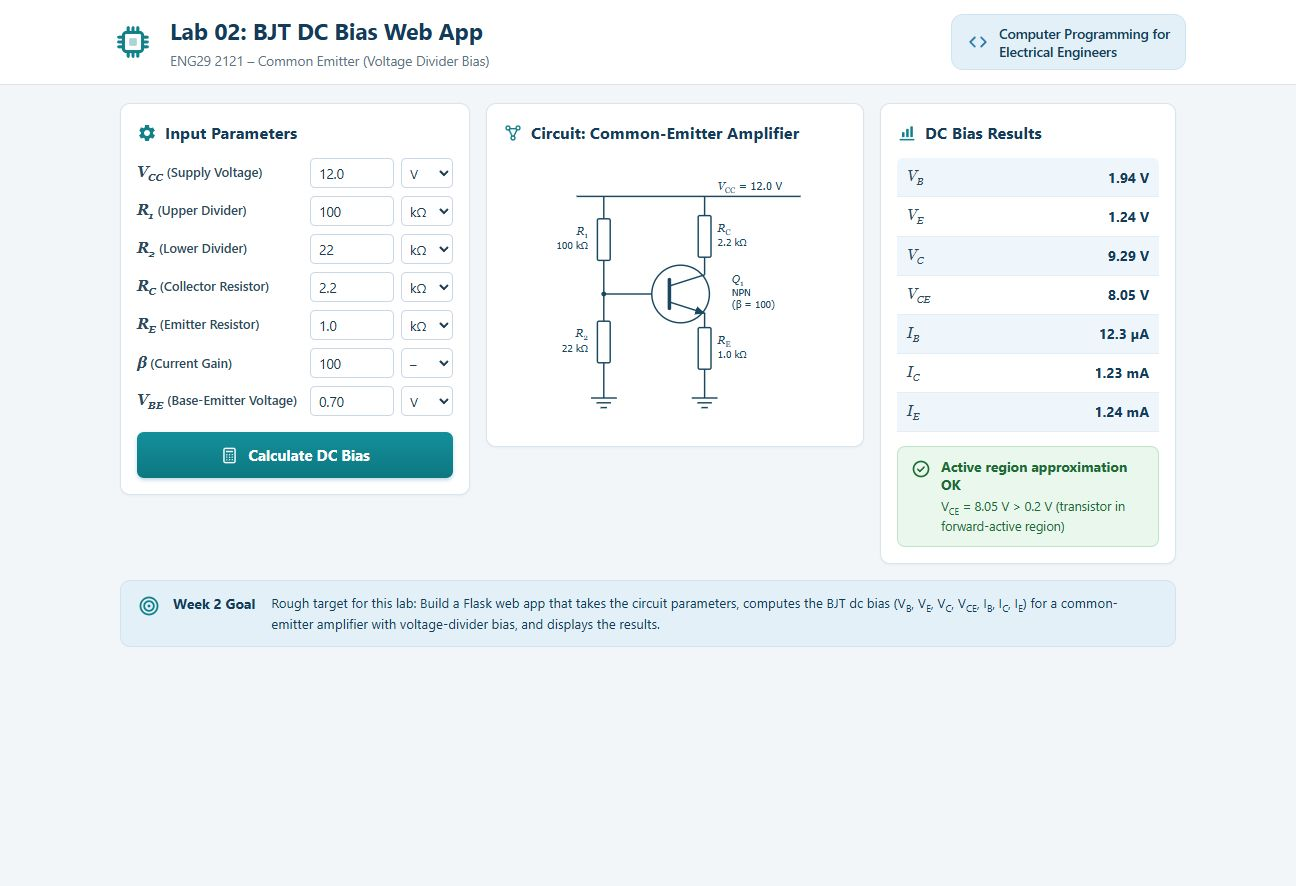
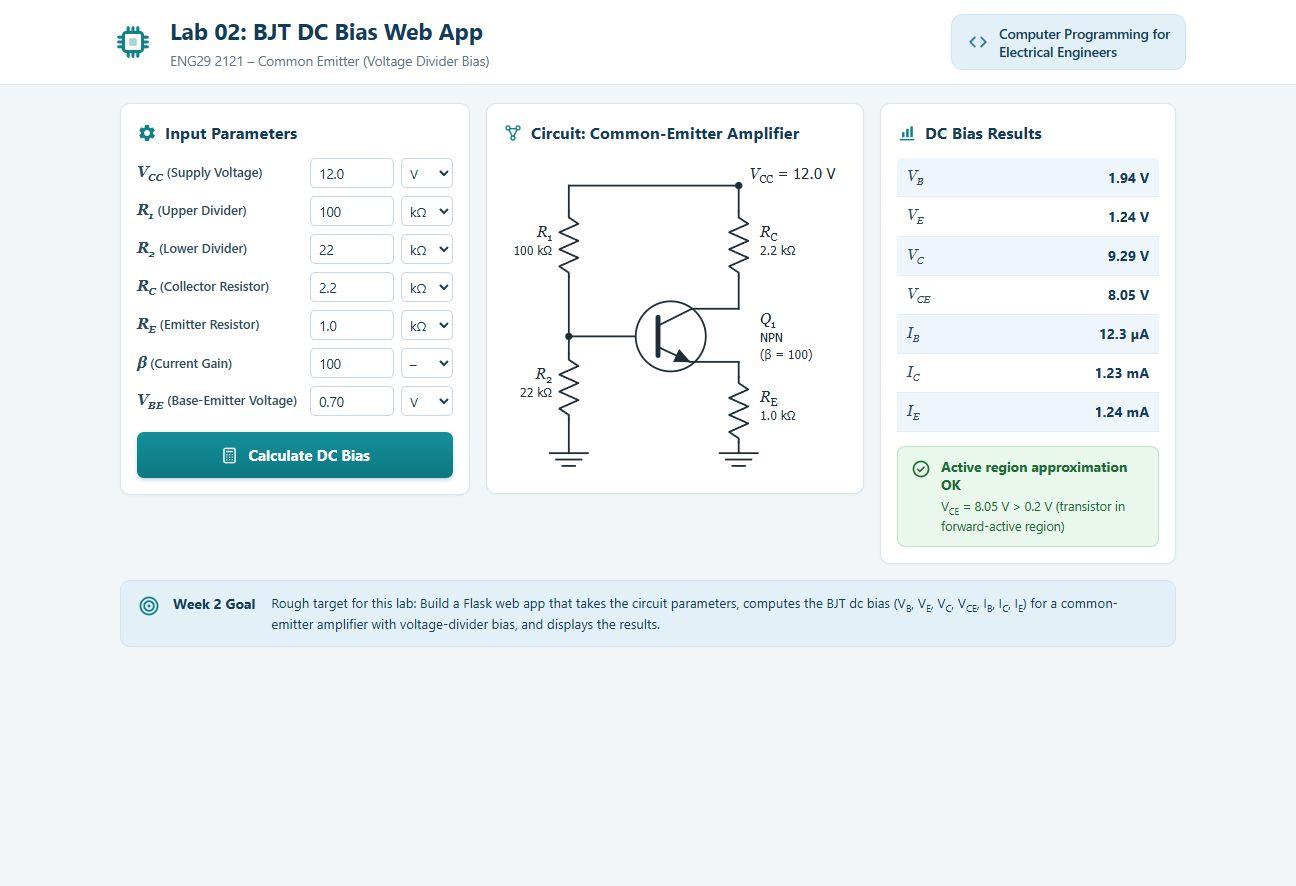
Redraw the schematic in the mockup style
- zigzag (ANSI) resistor symbols instead of plain rectangles
- NPN transistor: larger circle, thick base bar, forward-active arrow marker
- filled junction dots at the VCC terminal and the base divider node
- 3-bar ground symbols; labels grouped left/right of each device
- tighter viewBox so the circuit fills the card like the reference image
- refresh docs/screenshot-dashboard.jpeg

Changed region(s): [[0.4012, 0.1828, 0.6481, 0.5181], [0.4321, 0.4876, 0.463, 0.5181]]

diff --git a/templates/index.html b/templates/index.html
@@ -116,69 +116,73 @@
         </svg>
         Circuit: Common-Emitter Amplifier
       </h2>
-      <svg class="circuit" viewBox="0 0 430 340" role="img" aria-label="NPN common-emitter amplifier with voltage-divider bias">
+      <svg class="circuit" viewBox="48 22 324 300" role="img" aria-label="NPN common-emitter amplifier with voltage-divider bias">
         <defs>
-          <marker id="npn-arrow" markerWidth="9" markerHeight="9" refX="6.5" refY="3" orient="auto">
-            <path d="M0 0 L7 3 L0 6 Z" fill="#18475f"/>
+          <marker id="npn-arrow" markerWidth="10" markerHeight="8" refX="8.5" refY="4" orient="auto">
+            <path d="M0 0 L9 4 L0 8 Z" fill="#1f2d36"/>
           </marker>
         </defs>
-        <g stroke="#18475f" stroke-width="1.8" fill="none">
+        <g stroke="#1f2d36" stroke-width="1.7" fill="none" stroke-linecap="round" stroke-linejoin="round">
           <!-- VCC rail -->
-          <line x1="92" y1="48" x2="372" y2="48"/>
-          <!-- R1 -->
-          <line x1="126" y1="48" x2="126" y2="76"/>
-          <rect x="118" y="76" width="16" height="52" rx="2" fill="#fff"/>
-          <line x1="126" y1="128" x2="126" y2="170"/>
+          <line x1="110" y1="48" x2="270" y2="48"/>
+          <!-- left branch: VCC -> R1 -->
+          <line x1="110" y1="48" x2="110" y2="72"/>
+          <path d="M110 72 V78 L119 84 L101 92 L119 100 L101 108 L119 116 L101 124 L110 130 V134"/>
+          <!-- base node -->
+          <line x1="110" y1="134" x2="110" y2="190"/>
           <!-- R2 -->
-          <line x1="126" y1="170" x2="126" y2="204"/>
-          <rect x="118" y="204" width="16" height="52" rx="2" fill="#fff"/>
-          <line x1="126" y1="256" x2="126" y2="300"/>
+          <line x1="110" y1="190" x2="110" y2="206"/>
+          <path d="M110 206 V212 L119 218 L101 226 L119 234 L101 242 L119 250 L101 258 L110 264 V268"/>
+          <line x1="110" y1="268" x2="110" y2="300"/>
           <!-- base wire -->
-          <line x1="126" y1="170" x2="208" y2="170"/>
-          <!-- RC -->
-          <line x1="252" y1="48" x2="252" y2="72"/>
-          <rect x="244" y="72" width="16" height="52" rx="2" fill="#fff"/>
-          <line x1="252" y1="124" x2="252" y2="146"/>
+          <line x1="110" y1="190" x2="194" y2="190"/>
+          <!-- right branch: RC -->
+          <line x1="270" y1="48" x2="270" y2="72"/>
+          <path d="M270 72 V78 L279 84 L261 92 L279 100 L261 108 L279 116 L261 124 L270 130 V134"/>
+          <line x1="270" y1="134" x2="270" y2="164"/>
           <!-- transistor -->
-          <circle cx="222" cy="170" r="36" fill="#fff"/>
-          <line x1="208" y1="152" x2="208" y2="188" stroke-width="4.4" stroke-linecap="round"/>
-          <line x1="208" y1="160" x2="252" y2="146"/>
-          <line x1="208" y1="180" x2="252" y2="194" marker-end="url(#npn-arrow)"/>
+          <circle cx="206" cy="190" r="33" fill="#fff"/>
+          <line x1="194" y1="172" x2="194" y2="208" stroke-width="4.6"/>
+          <line x1="194" y1="180" x2="226" y2="164"/>
+          <line x1="226" y1="164" x2="270" y2="164"/>
+          <line x1="194" y1="200" x2="224" y2="214" marker-end="url(#npn-arrow)"/>
+          <line x1="224" y1="214" x2="270" y2="214"/>
           <!-- RE -->
-          <line x1="252" y1="194" x2="252" y2="212"/>
-          <rect x="244" y="212" width="16" height="52" rx="2" fill="#fff"/>
-          <line x1="252" y1="264" x2="252" y2="300"/>
+          <line x1="270" y1="214" x2="270" y2="228"/>
+          <path d="M270 228 V234 L279 240 L261 248 L279 256 L261 264 L279 272 L261 280 L270 286 V290"/>
+          <line x1="270" y1="290" x2="270" y2="300"/>
           <!-- grounds -->
-          <line x1="110" y1="300" x2="142" y2="300"/>
-          <line x1="117" y1="306" x2="135" y2="306"/>
-          <line x1="122" y1="312" x2="130" y2="312"/>
-          <line x1="236" y1="300" x2="268" y2="300"/>
-          <line x1="243" y1="306" x2="261" y2="306"/>
-          <line x1="248" y1="312" x2="256" y2="312"/>
-          <!-- junction dot -->
-          <circle cx="126" cy="170" r="3" fill="#18475f" stroke="none"/>
+          <line x1="92" y1="300" x2="128" y2="300"/>
+          <line x1="98" y1="306" x2="122" y2="306"/>
+          <line x1="104" y1="312" x2="116" y2="312"/>
+          <line x1="252" y1="300" x2="288" y2="300"/>
+          <line x1="258" y1="306" x2="282" y2="306"/>
+          <line x1="264" y1="312" x2="276" y2="312"/>
+          <!-- junction dots -->
+          <circle cx="110" cy="190" r="3.4" fill="#1f2d36" stroke="none"/>
+          <circle cx="270" cy="48" r="3.4" fill="#1f2d36" stroke="none"/>
         </g>
-        <g fill="#18475f" font-family="Tahoma, Segoe UI, sans-serif" font-size="12.5">
+        <g fill="#1f2d36" font-family="Tahoma, Segoe UI, sans-serif" font-size="11.5">
           <!-- VCC label -->
-          <text x="268" y="40">
+          <text x="280" y="42">
             <tspan font-family="Georgia, serif" font-style="italic" font-size="14">V<tspan dy="4" font-size="10" font-style="normal">CC</tspan><tspan dy="-4" font-family="Tahoma, Segoe UI, sans-serif" font-style="normal"> = {{ form.vcc }} V</tspan></tspan>
           </text>
           <!-- R1 -->
-          <text x="106" y="96" text-anchor="end" font-family="Georgia, serif" font-style="italic" font-size="14">R<tspan dy="4" font-size="10" font-style="normal">1</tspan></text>
-          <text x="106" y="114" text-anchor="end">{{ form.r1 }} {{ u_r1 }}</text>
+          <text x="94" y="96" text-anchor="end" font-family="Georgia, serif" font-style="italic" font-size="14">R<tspan dy="4" font-size="10" font-style="normal">1</tspan></text>
+          <text x="94" y="113" text-anchor="end">{{ form.r1 }} {{ u_r1 }}</text>
           <!-- R2 -->
-          <text x="106" y="224" text-anchor="end" font-family="Georgia, serif" font-style="italic" font-size="14">R<tspan dy="4" font-size="10" font-style="normal">2</tspan></text>
-          <text x="106" y="242" text-anchor="end">{{ form.r2 }} {{ u_r2 }}</text>
+          <text x="94" y="230" text-anchor="end" font-family="Georgia, serif" font-style="italic" font-size="14">R<tspan dy="4" font-size="10" font-style="normal">2</tspan></text>
+          <text x="94" y="247" text-anchor="end">{{ form.r2 }} {{ u_r2 }}</text>
           <!-- RC -->
-          <text x="268" y="92" font-family="Georgia, serif" font-style="italic" font-size="14">R<tspan dy="4" font-size="10" font-style="normal">C</tspan></text>
-          <text x="268" y="110">{{ form.rc }} {{ u_rc }}</text>
-          <!-- RE -->
-          <text x="268" y="232" font-family="Georgia, serif" font-style="italic" font-size="14">R<tspan dy="4" font-size="10" font-style="normal">E</tspan></text>
-          <text x="268" y="250">{{ form.re }} {{ u_re }}</text>
+          <text x="290" y="96" font-family="Georgia, serif" font-style="italic" font-size="14">R<tspan dy="4" font-size="10" font-style="normal">C</tspan></text>
+          <text x="290" y="113">{{ form.rc }} {{ u_rc }}</text>
           <!-- Q1 -->
-          <text x="286" y="156" font-family="Georgia, serif" font-style="italic" font-size="14">Q<tspan dy="4" font-size="10" font-style="normal">1</tspan></text>
-          <text x="286" y="172">NPN</text>
-          <text x="286" y="188">(β = {{ form.beta }})</text>
+          <text x="290" y="178" font-family="Georgia, serif" font-style="italic" font-size="14">Q<tspan dy="4" font-size="10" font-style="normal">1</tspan></text>
+          <text x="290" y="195">NPN</text>
+          <text x="290" y="211">(β = {{ form.beta }})</text>
+          <!-- RE -->
+          <text x="290" y="252" font-family="Georgia, serif" font-style="italic" font-size="14">R<tspan dy="4" font-size="10" font-style="normal">E</tspan></text>
+          <text x="290" y="269">{{ form.re }} {{ u_re }}</text>
         </g>
       </svg>
     </section>

diff --git a/static/style.css b/static/style.css
@@ -51,7 +51,7 @@ sub{font-size:.72em}
 .calc-btn svg{width:19px;height:19px}
 
 /* ---------- Circuit ---------- */
-.circuit{display:block;width:100%;height:auto;max-height:360px;margin:2px auto 0}
+.circuit{display:block;width:100%;height:auto;max-height:340px;margin:2px auto 0}
 
 /* ---------- Results ---------- */
 .result-table{width:100%;border-collapse:collapse;font-size:14px}
